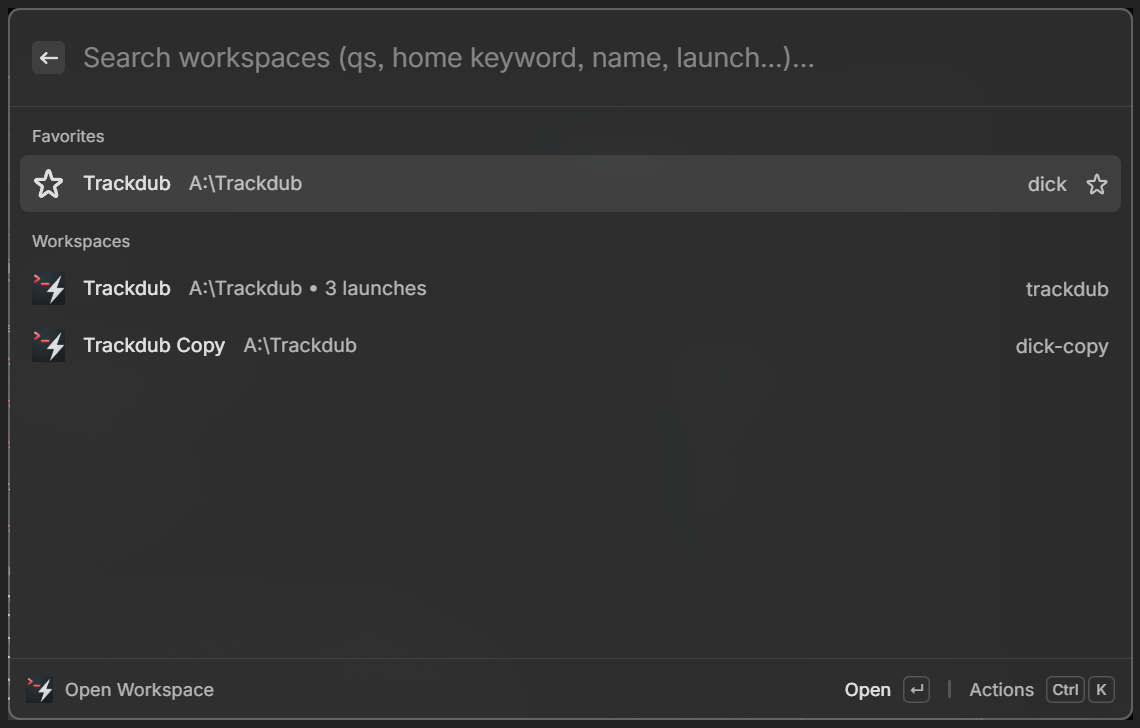
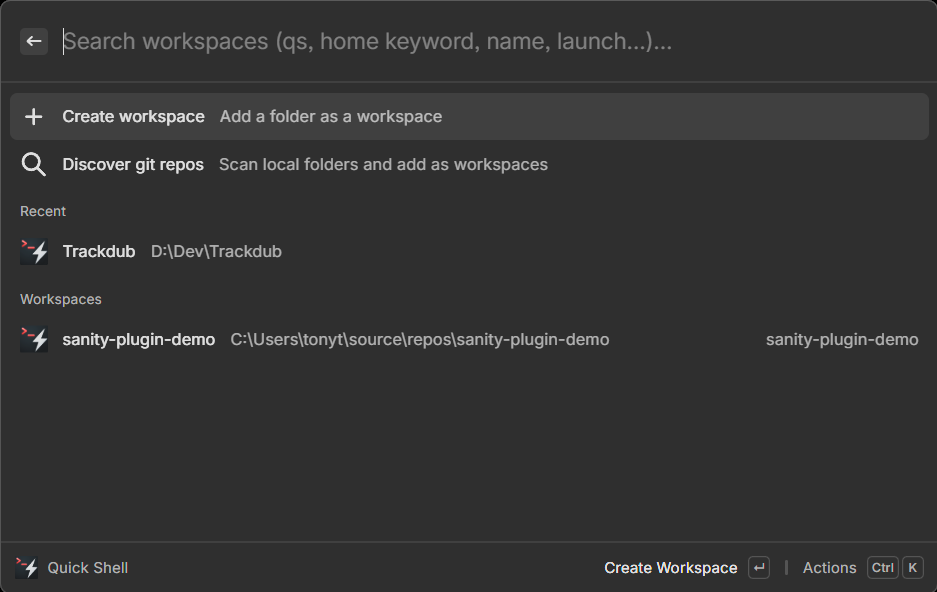
Raise Run workspace editor height and widen the repository URL column.
Also refresh Run/Raycast screenshots and match the forms tour dimensions.

diff --git a/QuickShell.Run/ShortcutWorkspaceEditorWindow.cs b/QuickShell.Run/ShortcutWorkspaceEditorWindow.cs
@@ -76,8 +76,8 @@ internal sealed class ShortcutWorkspaceEditorWindow : Window, IDisposable
         Title = existing is null ? "Create Quick Shell workspace" : $"Edit {_working.Name}";
         Width = 680;
         // Tall enough for folder/name/links/companion + pills + a few launch rows without scrolling.
-        Height = 860;
-        MinHeight = 640;
+        Height = 980;
+        MinHeight = 720;
         MinWidth = 640;
         WindowStartupLocation = WindowStartupLocation.CenterScreen;
 
@@ -112,9 +112,9 @@ internal sealed class ShortcutWorkspaceEditorWindow : Window, IDisposable
         body.Children.Add(_abbreviationBox);
 
         var linkRow = new Grid { Margin = new Thickness(0, 0, 0, 8) };
-        linkRow.ColumnDefinitions.Add(new ColumnDefinition { Width = new GridLength(2, GridUnitType.Star) });
-        linkRow.ColumnDefinitions.Add(new ColumnDefinition { Width = new GridLength(8) });
         linkRow.ColumnDefinitions.Add(new ColumnDefinition { Width = new GridLength(3, GridUnitType.Star) });
+        linkRow.ColumnDefinitions.Add(new ColumnDefinition { Width = new GridLength(8) });
+        linkRow.ColumnDefinitions.Add(new ColumnDefinition { Width = new GridLength(2, GridUnitType.Star) });
         linkRow.RowDefinitions.Add(new RowDefinition { Height = GridLength.Auto });
         linkRow.RowDefinitions.Add(new RowDefinition { Height = GridLength.Auto });
         var repoLabel = RunWpfUiHelpers.FieldLabel("Repository URL", WorkspaceFormTooltips.RepoUrl);

diff --git a/docs/architecture/forms.md b/docs/architecture/forms.md
@@ -9,7 +9,7 @@ In-palette create/edit (CmdPal Adaptive Cards), disk drafts, and the **two** und
 | Create / Edit / Duplicate | `ShortcutFormPage` + `ShortcutForm` (`QuickShell/Pages/`) over Core `IWorkspaceEditor` |
 | Pending edit resume | `PendingShortcutEditPage` |
 | Shared edit session | `QuickShell.Core/Services/WorkspaceEditor/` (`IWorkspaceEditor`, factory via `AddQuickShellCore`) |
-| Run host editor | `QuickShell.Run/ShortcutWorkspaceEditorWindow.cs` (one-page WPF binder over the same Core session; 680×860, min 640) |
+| Run host editor | `QuickShell.Run/ShortcutWorkspaceEditorWindow.cs` (one-page WPF binder over the same Core session; 680×980, min 720) |
 | Raycast | React form components + storage history (separate stack) |
 
 ## Form model
